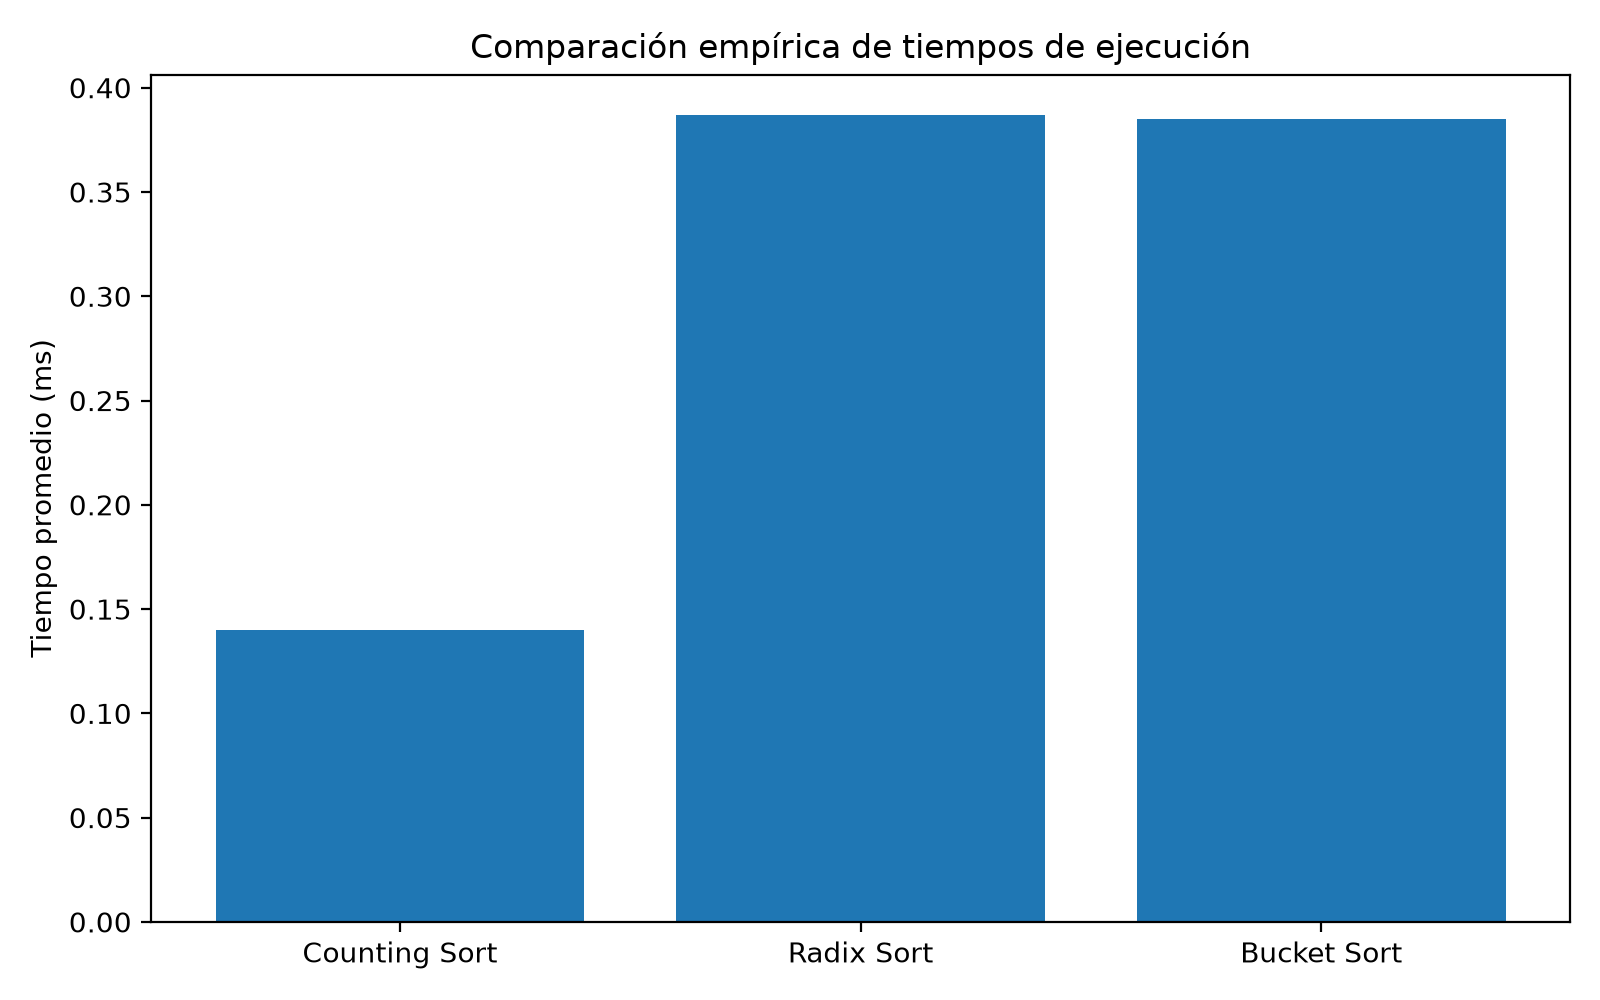
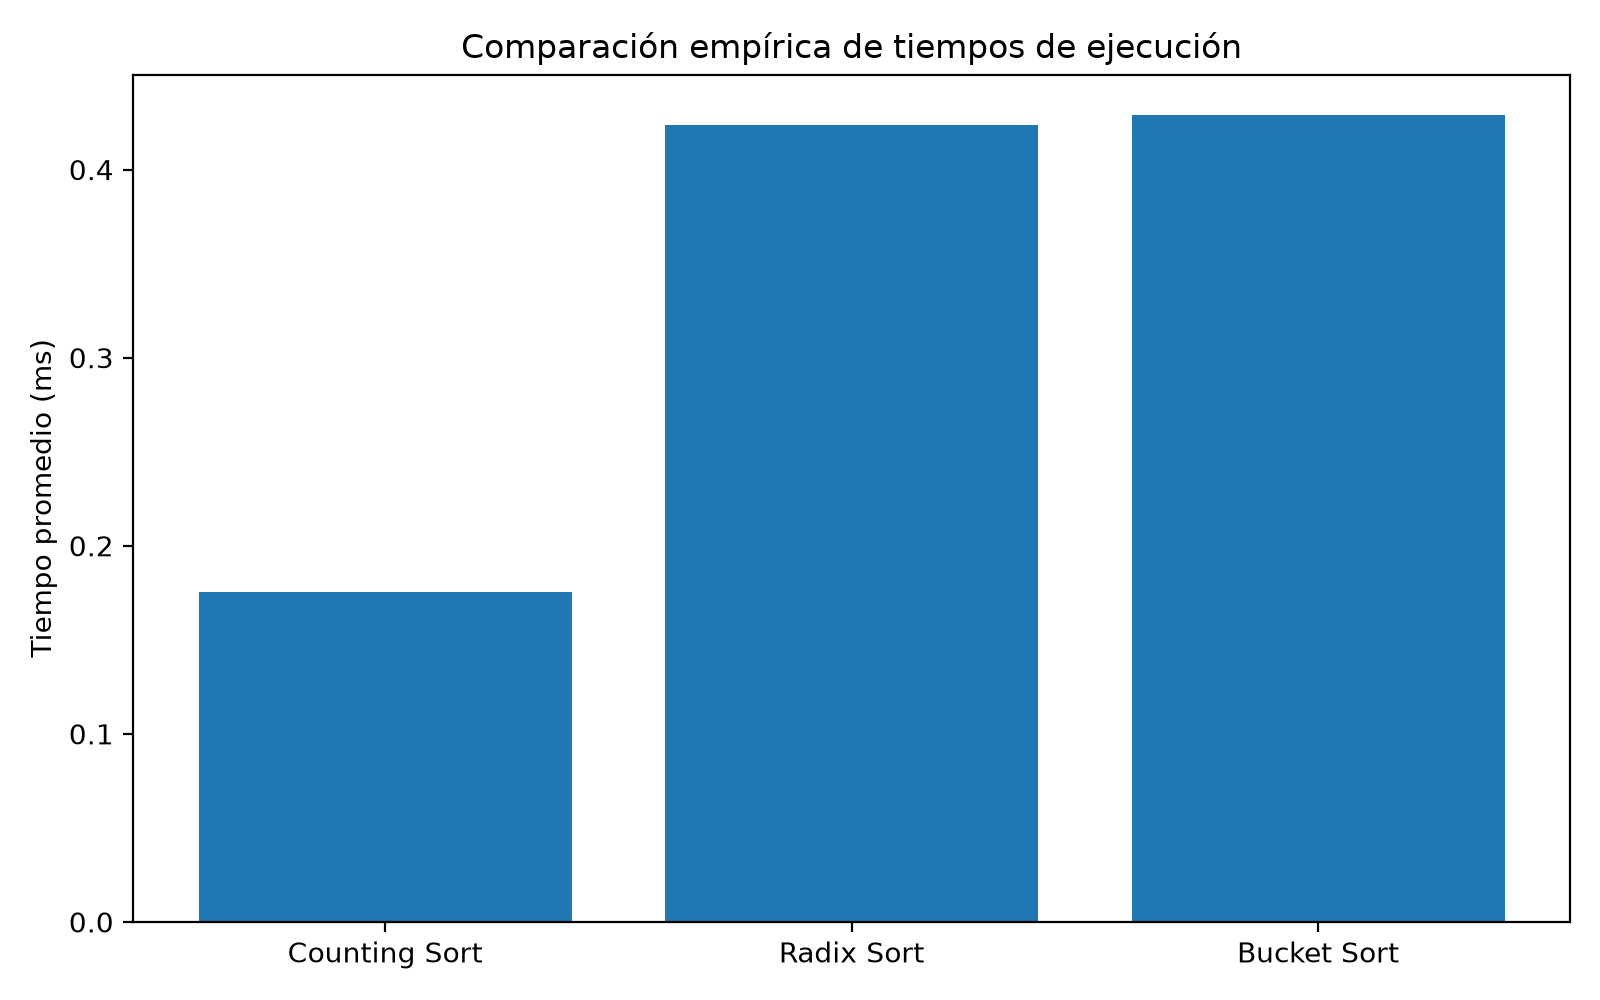
Conservar AI en el análisis de términos
Se permite mantener «AI» pese al filtro de longitud mínima y se documenta su normalización a «ai». Se actualizan las pruebas y los resultados del corpus, incluidos los rankings y las gráficas.

diff --git a/src/procesamiento.py b/src/procesamiento.py
@@ -4,7 +4,7 @@ from pathlib import Path
 
 import pymupdf as fitz
 
-from configuracion import STOPWORDS
+from configuracion import STOPWORDS, TERMINOS_CORTOS_RELEVANTES
 
 
 def extraer_texto_pdf(ruta_pdf: Path) -> str:
@@ -64,7 +64,7 @@ def tokenizar_abstract(abstract: str) -> list[str]:
     Criterios utilizados:
     - minúsculas,
     - solo palabras formadas por letras,
-    - longitud mínima de 3 caracteres,
+    - longitud mínima de 3 caracteres, salvo términos cortos relevantes como AI,
     - eliminación de palabras vacías en inglés.
     """
     abstract = unicodedata.normalize("NFKC", abstract)
@@ -78,7 +78,7 @@ def tokenizar_abstract(abstract: str) -> list[str]:
     for palabra in palabras:
         palabra = normalizar_palabra(palabra)
 
-        if len(palabra) < 3:
+        if len(palabra) < 3 and palabra not in TERMINOS_CORTOS_RELEVANTES:
             continue
         if palabra in STOPWORDS:
             continue

diff --git a/tests/test_proyecto.py b/tests/test_proyecto.py
@@ -29,7 +29,13 @@ class Pruebas(unittest.TestCase):
         self.assertEqual(extraer_abstract("Abstract: Summary.\n\nBody without heading."), "Summary.")
 
     def test_normalizacion(self):
-        self.assertEqual(tokenizar_abstract("Artiﬁcial edu-\ncation tech\xad\nnology the AI"), ["artificial", "education", "technology"])
+        self.assertEqual(tokenizar_abstract("Artiﬁcial edu-\ncation tech\xad\nnology the AI"), ["artificial", "education", "technology", "ai"])
+
+    def test_ai_se_conserva_sin_confundir_siglas(self):
+        self.assertEqual(
+            tokenizar_abstract("AI ai Ai AI-driven AI's AIED GenAI in of an"),
+            ["ai", "ai", "ai", "ai", "driven", "ai", "aied", "genai"],
+        )
 
     def test_corpus_completo(self):
         frecuencias, articulos = procesar_corpus(Path(__file__).resolve().parents[1] / "corpus")

diff --git a/src/configuracion.py b/src/configuracion.py
@@ -8,6 +8,9 @@ RESULTADOS_DIR = BASE_DIR / "resultados"
 # Cantidad de ejecuciones para obtener un tiempo promedio más estable
 REPETICIONES = 30
 
+# Términos del dominio que se conservan aunque tengan menos de tres letras.
+TERMINOS_CORTOS_RELEVANTES = {"ai"}
+
 # Lista básica de palabras vacías en inglés.
 # Se usa una lista propia para no depender de NLTK ni de descargas externas.
 STOPWORDS = {

diff --git a/documentacion/BASE_DOCUMENTACION.md b/documentacion/BASE_DOCUMENTACION.md
@@ -14,7 +14,9 @@ editoriales requieren revisar los textos exportados; no se incluye OCR.
 Se aplica normalización Unicode NFKC antes de tokenizar (incluidas ligaduras),
 se unen cortes de palabra por salto de línea y guiones blandos, se convierten las
 palabras a minúsculas y se eliminan números, puntuación, stopwords y términos
-menores de tres letras. No se aplica stemming ni lematización. Estas son decisiones
+menores de tres letras, excepto AI (normalizado a ai), por su relevancia temática.
+AIED y GenAI se cuentan como términos distintos de AI.
+No se aplica stemming ni lematización. Estas son decisiones
 de preprocesamiento documentadas: el enunciado no especifica una lista de stopwords.
 Se cuenta manualmente la frecuencia global en un diccionario y se convierte a
 una lista de tuplas (término, frecuencia). Los empates conservan su orden inicial;
@@ -61,34 +63,34 @@ constantes universales ni una prueba de complejidad asintótica.
 
 | Algoritmo | Repeticiones | Promedio ms | Mínimo ms | Máximo ms |
 |---|---:|---:|---:|---:|
-| Counting Sort | 30 | 0.178900 | 0.157600 | 0.256100 |
-| Radix Sort | 30 | 0.456203 | 0.411500 | 0.598200 |
-| Bucket Sort | 30 | 0.444033 | 0.413800 | 0.544200 |
+| Counting Sort | 30 | 0.175437 | 0.157500 | 0.451100 |
+| Radix Sort | 30 | 0.423510 | 0.405500 | 0.485400 |
+| Bucket Sort | 30 | 0.429013 | 0.408500 | 0.504000 |
 
 ## Validación y resultados
-Se obtuvieron 988 términos distintos. Los tres rankings completos coinciden,
+Se obtuvieron 989 términos distintos. Los tres rankings completos coinciden,
 incluidos los empates. Esta tabla muestra el término y su frecuencia por algoritmo.
 
 | Posición | Counting Sort | Radix Sort | Bucket Sort |
 |---|---|---|---|
-| 1 | education (57) | education (57) | education (57) |
-| 2 | research (46) | research (46) | research (46) |
-| 3 | learning (40) | learning (40) | learning (40) |
-| 4 | aied (38) | aied (38) | aied (38) |
-| 5 | review (36) | review (36) | review (36) |
-| 6 | educational (33) | educational (33) | educational (33) |
-| 7 | assessment (32) | assessment (32) | assessment (32) |
-| 8 | intelligence (23) | intelligence (23) | intelligence (23) |
-| 9 | artificial (22) | artificial (22) | artificial (22) |
-| 10 | studies (21) | studies (21) | studies (21) |
-| 11 | higher (16) | higher (16) | higher (16) |
-| 12 | literature (15) | literature (15) | literature (15) |
-| 13 | technologies (15) | technologies (15) | technologies (15) |
-| 14 | systematic (15) | systematic (15) | systematic (15) |
-| 15 | study (15) | study (15) | study (15) |
+| 1 | ai (86) | ai (86) | ai (86) |
+| 2 | education (57) | education (57) | education (57) |
+| 3 | research (46) | research (46) | research (46) |
+| 4 | learning (40) | learning (40) | learning (40) |
+| 5 | aied (38) | aied (38) | aied (38) |
+| 6 | review (36) | review (36) | review (36) |
+| 7 | educational (33) | educational (33) | educational (33) |
+| 8 | assessment (32) | assessment (32) | assessment (32) |
+| 9 | intelligence (23) | intelligence (23) | intelligence (23) |
+| 10 | artificial (22) | artificial (22) | artificial (22) |
+| 11 | studies (21) | studies (21) | studies (21) |
+| 12 | higher (16) | higher (16) | higher (16) |
+| 13 | literature (15) | literature (15) | literature (15) |
+| 14 | technologies (15) | technologies (15) | technologies (15) |
+| 15 | systematic (15) | systematic (15) | systematic (15) |
 
 También se generan las gráficas top15_terminos.png y tiempos_algoritmos.png.
-Las cinco pruebas automatizadas verifican estabilidad y preservación de la entrada
+Las seis pruebas automatizadas verifican estabilidad y preservación de la entrada
 frente a una referencia independiente en casos aleatorios, encabezados espaciados,
 separación de columnas, normalización y agregación del corpus completo.
 El uso de sorted en las pruebas es exclusivamente una referencia de comprobación;
@@ -101,4 +103,5 @@ añade distribución y gestión de listas, por lo que su mayor coste constante p
 superar sus ventajas para este tamaño. Una sola lista no permite confirmar tasas
 de crecimiento: para ello se necesitarían entradas de tamaños y rangos variados.
 El ranking depende del preprocesamiento; no identifica automáticamente sinónimos
-ni agrupa singular/plural. education fue el término más frecuente (57 apariciones).
+ni agrupa singular/plural. ai fue el término más frecuente (86 apariciones),
+seguido de education (57).
